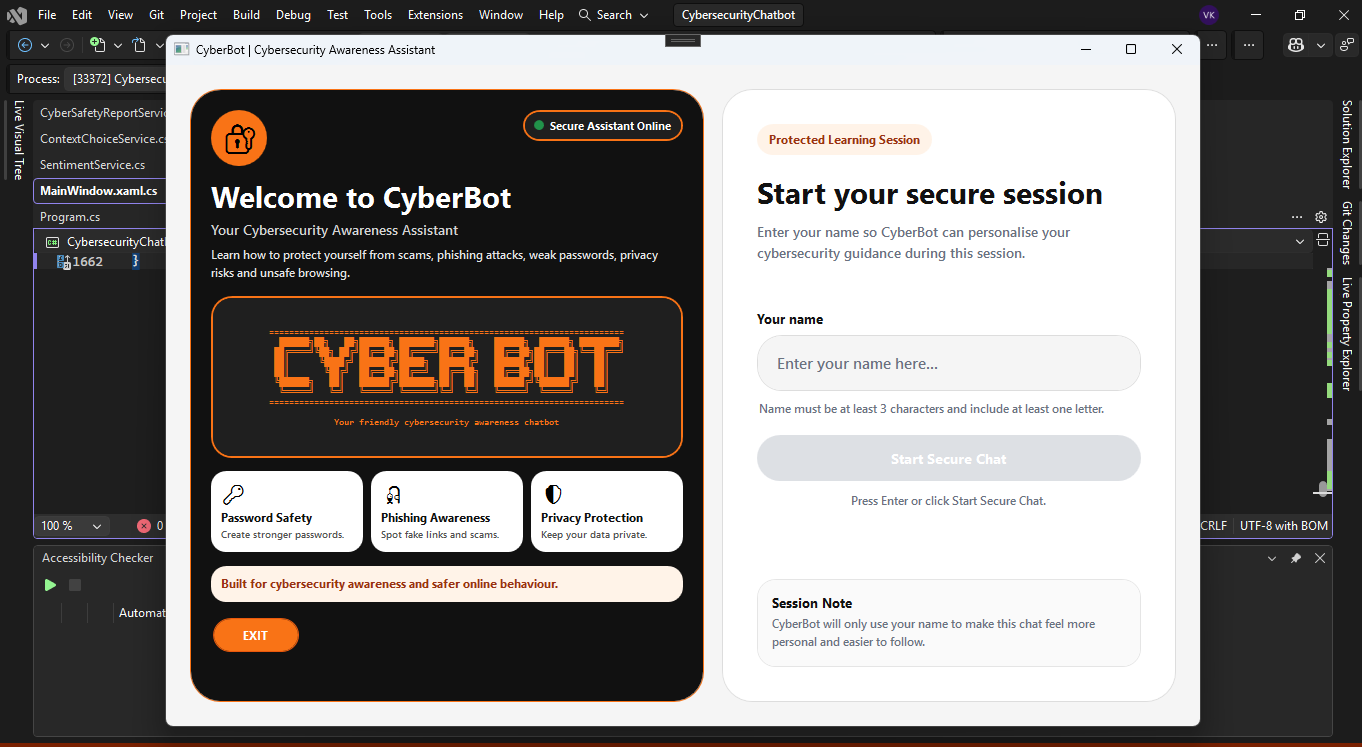
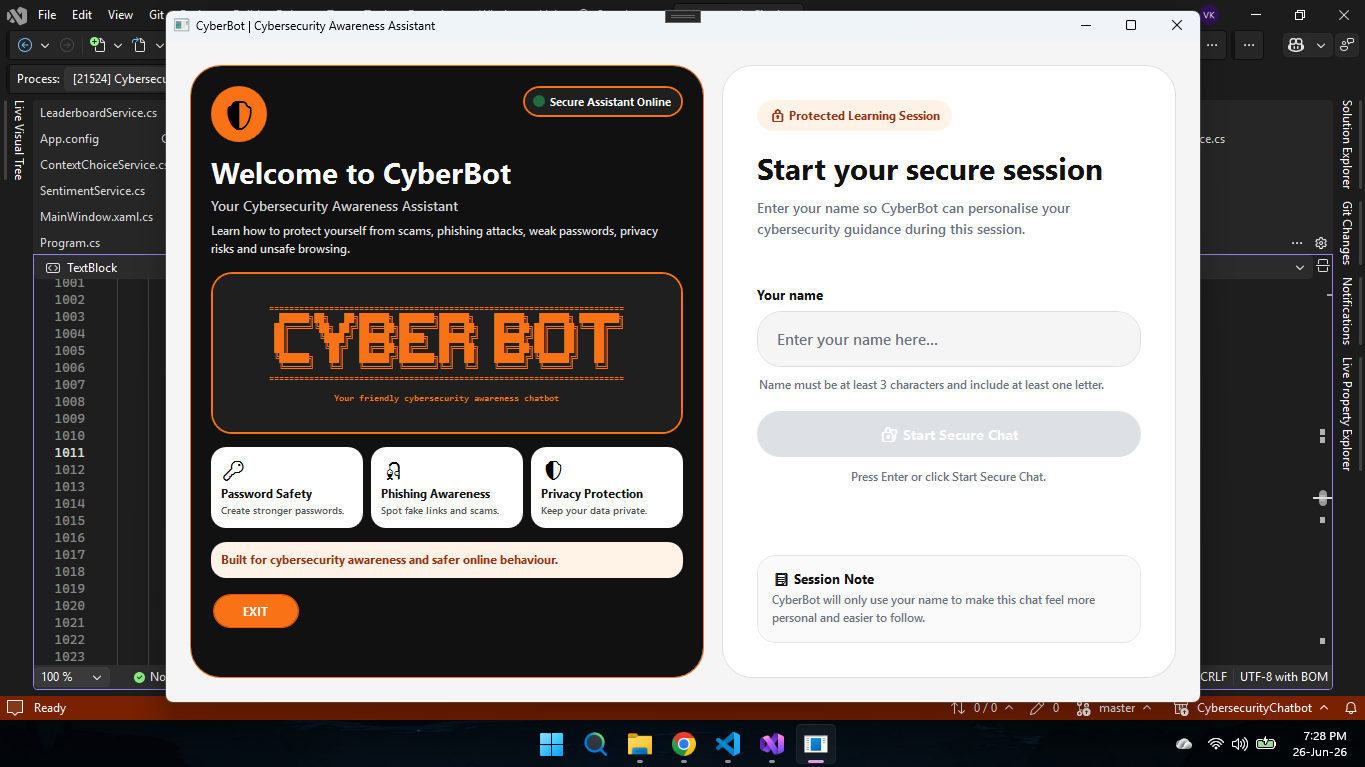
Added Part 3 screenshots

diff --git a/CybersecurityChatbotGUI/MainWindow.xaml.cs b/CybersecurityChatbotGUI/MainWindow.xaml.cs
@@ -197,44 +197,19 @@ namespace CybersecurityChatbotGUI
 
         private void AddTaskButton_Click(object sender, RoutedEventArgs e)
         {
-            string title = TaskTitleTextBox.Text.Trim();
-            string description = TaskDescriptionTextBox.Text.Trim();
-            string reminderText = TaskReminderTextBox.Text.Trim();
-
-            if (string.IsNullOrWhiteSpace(title))
-            {
-                ShowTaskFeedback("Please enter a task title.", false);
-                return;
-            }
-
-            bool confirmSave = CyberDialog.ShowConfirmation(
-                this,
-                "Save Task",
-                $"Are you sure you want to save this task?\n\nTitle: {title}");
-
+            string title = TaskTitleTextBox.Text.Trim(); string description = TaskDescriptionTextBox.Text.Trim(); string reminderText = TaskReminderTextBox.Text.Trim();
+            if (string.IsNullOrWhiteSpace(title)) { ShowTaskFeedback("Please enter a task title.", false); return; }
+            bool confirmSave = CyberDialog.ShowConfirmation(this, "Save Task", $"Are you sure you want to save this task?\n\nTitle: {title}");
             if (!confirmSave) return;
-
             DateTime? reminderDate = null;
-            if (!string.IsNullOrWhiteSpace(reminderText))
-            {
-                reminderDate = taskAssistant.ParseReminderDate(reminderText);
-
-                
-            }
-
+            if (!string.IsNullOrWhiteSpace(reminderText)) reminderDate = taskAssistant.ParseReminderDate(reminderText);
             string result = taskAssistant.AddTask(title, description, reminderDate);
             bool isSuccess = result.Contains("successfully");
             ShowTaskFeedback(result, isSuccess);
-
-            if (isSuccess)
-            {
-                TaskTitleTextBox.Clear();
-                TaskDescriptionTextBox.Clear();
-                TaskReminderTextBox.Clear();
-            }
-
+            if (isSuccess) { TaskTitleTextBox.Clear(); TaskDescriptionTextBox.Clear(); TaskReminderTextBox.Clear(); }
             RefreshTaskList();
         }
+
         private async void ShowTaskFeedback(string message, bool isSuccess)
         {
             StackPanel parentStack = null; DependencyObject current = AddTaskButton.Parent; while (current != null) { if (current is StackPanel sp) { parentStack = sp; break; } current = VisualTreeHelper.GetParent(current); }
@@ -286,30 +261,8 @@ namespace CybersecurityChatbotGUI
                 editBtn.Style = es;
                 editBtn.Content = new Viewbox { Width = 14, Height = 14, Child = new Path { Fill = new SolidColorBrush(Colors.White), Stretch = Stretch.Uniform, Data = Geometry.Parse("M3,17.25V21H6.75L17.81,9.94L14.06,6.19L3,17.25M20.71,7.04C21.1,6.65 21.1,6 20.71,5.63L18.37,3.29C18,2.9 17.35,2.9 16.96,3.29L15.13,5.12L18.88,8.87L20.71,7.04Z") } };
                 editBtn.SetValue(Grid.ColumnProperty, 2);
-                int eid = task.TaskID; string et = task.Title; string ed = task.Description; string er = task.ReminderDate.HasValue ? task.ReminderDate.Value.ToString("yyyy-MM-dd HH:mm") : "";
-                editBtn.Click += (s, ev) => {
-                    TaskTitleTextBox.Text = et;
-                    TaskDescriptionTextBox.Text = ed;
-                    if (task.ReminderDate.HasValue)
-                    {
-                        TimeSpan diff = task.ReminderDate.Value - DateTime.Now;
-                        if (diff.Days > 1)
-                            TaskReminderTextBox.Text = $"in {diff.Days} days";
-                        else if (diff.Days == 1 || (diff.Days == 0 && diff.Hours > 0))
-                            TaskReminderTextBox.Text = "tomorrow";
-                        else if (diff.Days == 0 && diff.Hours <= 0)
-                            TaskReminderTextBox.Text = "today";
-                        else
-                            TaskReminderTextBox.Text = task.ReminderDate.Value.ToString("yyyy-MM-dd HH:mm");
-                    }
-                    else
-                    {
-                        TaskReminderTextBox.Text = "";
-                    }
-                    taskAssistant.DeleteTask(eid);
-                    RefreshTaskList();
-                    ShowTab(TaskTab);
-                };
+                int eid = task.TaskID; string et = task.Title; string ed = task.Description;
+                editBtn.Click += (s, ev) => { TaskTitleTextBox.Text = et; TaskDescriptionTextBox.Text = ed; if (task.ReminderDate.HasValue) { TimeSpan diff = task.ReminderDate.Value - DateTime.Now; if (diff.Days > 1) TaskReminderTextBox.Text = $"in {diff.Days} days"; else if (diff.Days == 1 || (diff.Days == 0 && diff.Hours > 0)) TaskReminderTextBox.Text = "tomorrow"; else TaskReminderTextBox.Text = task.ReminderDate.Value.ToString("yyyy-MM-dd HH:mm"); } else { TaskReminderTextBox.Text = ""; } taskAssistant.DeleteTask(eid); RefreshTaskList(); ShowTab(TaskTab); };
                 cg.Children.Add(editBtn);
             }
 
@@ -321,13 +274,7 @@ namespace CybersecurityChatbotGUI
             deleteBtn.Content = new Viewbox { Width = 14, Height = 14, Child = new Path { Fill = new SolidColorBrush(Colors.White), Stretch = Stretch.Uniform, Data = Geometry.Parse("M9,3V4H4V6H5V19A2,2 0 0,0 7,21H17A2,2 0 0,0 19,19V6H20V4H15V3H9M7,6H17V19H7V6M9,8V17H11V8H9M13,8V17H15V8H13Z") } };
             deleteBtn.SetValue(Grid.ColumnProperty, 3);
             int did = task.TaskID;
-            deleteBtn.Click += (s, ev) => {
-                if (CyberDialog.ShowConfirmation(this, "Confirm Delete", $"Are you sure you want to delete task '{task.Title}'?"))
-                {
-                    taskAssistant.DeleteTask(did);
-                    RefreshTaskList();
-                }
-            };
+            deleteBtn.Click += (s, ev) => { if (CyberDialog.ShowConfirmation(this, "Confirm Delete", $"Are you sure you want to delete task '{task.Title}'?")) { taskAssistant.DeleteTask(did); RefreshTaskList(); } };
             cg.Children.Add(deleteBtn);
 
             card.Child = cg; return card;
@@ -339,7 +286,19 @@ namespace CybersecurityChatbotGUI
         private void ProcessQuizAnswer(int si) { foreach (Border ob in QuizOptionsPanel.Children) { ob.IsEnabled = false; ob.Cursor = Cursors.Arrow; int ti = (int)ob.Tag; bool ico = ti == quizManager.GetCurrentQuestion().CorrectAnswerIndex; bool isSel = ti == si; Grid og = ob.Child as Grid; Border lb = og?.Children[0] as Border; if (ico) { ob.Background = new SolidColorBrush(Color.FromRgb(240, 253, 244)); ob.BorderBrush = new SolidColorBrush(Color.FromRgb(34, 197, 94)); if (lb != null) { lb.Background = new SolidColorBrush(Color.FromRgb(34, 197, 94)); ScaleTransform st2 = new ScaleTransform(1, 1); lb.RenderTransform = st2; lb.RenderTransformOrigin = new Point(0.5, 0.5); DoubleAnimation p2 = new DoubleAnimation(1, 1.3, TimeSpan.FromMilliseconds(300)) { AutoReverse = true, EasingFunction = new CubicEase { EasingMode = EasingMode.EaseOut } }; st2.BeginAnimation(ScaleTransform.ScaleXProperty, p2); st2.BeginAnimation(ScaleTransform.ScaleYProperty, p2); } } else if (isSel && !ico) { ob.Background = new SolidColorBrush(Color.FromRgb(254, 242, 242)); ob.BorderBrush = new SolidColorBrush(Color.FromRgb(239, 68, 68)); if (lb != null) { lb.Background = new SolidColorBrush(Color.FromRgb(239, 68, 68)); TranslateTransform tt3 = new TranslateTransform(0, 0); lb.RenderTransform = tt3; DoubleAnimation sh = new DoubleAnimation(-5, 5, TimeSpan.FromMilliseconds(50)) { RepeatBehavior = new RepeatBehavior(4), AutoReverse = true }; tt3.BeginAnimation(TranslateTransform.XProperty, sh); } } else ob.Opacity = 0.5; } bool ic = quizManager.SubmitAnswer(si); Border fbb = new Border { Background = ic ? new SolidColorBrush(Color.FromRgb(240, 253, 244)) : new SolidColorBrush(Color.FromRgb(254, 242, 242)), BorderBrush = ic ? new SolidColorBrush(Color.FromRgb(34, 197, 94)) : new SolidColorBrush(Color.FromRgb(239, 68, 68)), BorderThickness = new Thickness(2), CornerRadius = new CornerRadius(16), Padding = new Thickness(16, 12, 16, 12), Margin = new Thickness(0, 8, 0, 8), Opacity = 0 }; StackPanel fs = new StackPanel(); StackPanel hs = new StackPanel { Orientation = Orientation.Horizontal, Margin = new Thickness(0, 0, 0, 6) }; TextBlock ttt = new TextBlock { Text = ic ? "Correct!" : "Incorrect", Foreground = ic ? new SolidColorBrush(Color.FromRgb(22, 101, 52)) : new SolidColorBrush(Color.FromRgb(185, 28, 28)), FontSize = 16, FontWeight = FontWeights.Bold, VerticalAlignment = VerticalAlignment.Center }; hs.Children.Add(ttt); TextBlock et = new TextBlock { Text = ic ? quizManager.GetCurrentExplanation() : $"The correct answer is: {quizManager.GetCorrectAnswerText()}. {quizManager.GetCurrentExplanation()}", Foreground = new SolidColorBrush(Color.FromRgb(75, 85, 99)), FontSize = 13, FontWeight = FontWeights.SemiBold, TextWrapping = TextWrapping.Wrap, LineHeight = 20 }; fs.Children.Add(hs); fs.Children.Add(et); fbb.Child = fs; QuizActivePanel.Children.Insert(QuizActivePanel.Children.IndexOf(QuizNextButton), fbb); fbb.RenderTransform = new TranslateTransform(0, 10); DoubleAnimation bfi = new DoubleAnimation(0, 1, TimeSpan.FromMilliseconds(300)) { EasingFunction = new CubicEase { EasingMode = EasingMode.EaseOut } }; DoubleAnimation bsu = new DoubleAnimation(10, 0, TimeSpan.FromMilliseconds(300)) { EasingFunction = new CubicEase { EasingMode = EasingMode.EaseOut } }; fbb.BeginAnimation(UIElement.OpacityProperty, bfi); (fbb.RenderTransform as TranslateTransform).BeginAnimation(TranslateTransform.YProperty, bsu); QuizNextButton.Visibility = Visibility.Visible; activityLogger.LogActivity($"Quiz Q{quizManager.CurrentQuestionNumber} answered", "Quiz"); }
         private void QuizNextButton_Click(object sender, RoutedEventArgs e) { List<UIElement> tr = new List<UIElement>(); foreach (UIElement c in QuizActivePanel.Children) { if (c is Border bc && bc.Tag == null) tr.Add(c); } foreach (var item in tr) QuizActivePanel.Children.Remove(item); if (quizManager.MoveToNextQuestion()) DisplayCurrentQuestion(); else ShowQuizResults(); }
         private void ShowQuizResults() { QuizActivePanel.Visibility = Visibility.Collapsed; QuizStartPanel.Visibility = Visibility.Collapsed; QuizResultsPanel.Visibility = Visibility.Visible; LeaderboardPanel.Visibility = Visibility.Collapsed; int score = quizManager.GetScore(); int total = quizManager.GetTotalQuestions(); QuizResultsTitleTextBlock.Text = "Quiz Complete!"; QuizResultsScoreTextBlock.Text = $"{score} / {total}"; QuizResultsFeedbackTextBlock.Text = quizManager.GetFinalFeedback(); activityLogger.LogActivity($"Quiz done - {score}/{total}", "Quiz"); leaderboardService.AddScore(userName, score, total); if (score == total) { Dispatcher.BeginInvoke(new Action(() => ShowConfettiBurst()), DispatcherPriority.Render); } }
-        private void QuitQuizButton_Click(object sender, RoutedEventArgs e) { if (MessageBox.Show("Are you sure you want to quit the quiz? Your progress will be lost and you will not appear on the leaderboard.", "Quit Quiz", MessageBoxButton.YesNo, MessageBoxImage.Warning) == MessageBoxResult.Yes) { QuizActivePanel.Visibility = Visibility.Collapsed; QuizResultsPanel.Visibility = Visibility.Collapsed; LeaderboardPanel.Visibility = Visibility.Collapsed; QuizStartPanel.Visibility = Visibility.Visible; activityLogger.LogActivity("Quiz quit by user", "Quiz"); } }
+
+        private void QuitQuizButton_Click(object sender, RoutedEventArgs e)
+        {
+            if (CyberDialog.ShowConfirmation(this, "Quit Quiz", "Are you sure you want to quit the quiz? Your progress will be lost and you will not appear on the leaderboard."))
+            {
+                QuizActivePanel.Visibility = Visibility.Collapsed;
+                QuizResultsPanel.Visibility = Visibility.Collapsed;
+                LeaderboardPanel.Visibility = Visibility.Collapsed;
+                QuizStartPanel.Visibility = Visibility.Visible;
+                activityLogger.LogActivity("Quiz quit by user", "Quiz");
+            }
+        }
+
         private void ShowLeaderboardButton_Click(object sender, RoutedEventArgs e) { QuizResultsPanel.Visibility = Visibility.Collapsed; LeaderboardPanel.Visibility = Visibility.Visible; RefreshLeaderboard(); }
         private void BackToResultsButton_Click(object sender, RoutedEventArgs e) { LeaderboardPanel.Visibility = Visibility.Collapsed; QuizResultsPanel.Visibility = Visibility.Visible; }
         private void BackToQuizFromLeaderboardButton_Click(object sender, RoutedEventArgs e) { LeaderboardPanel.Visibility = Visibility.Collapsed; QuizResultsPanel.Visibility = Visibility.Collapsed; QuizStartPanel.Visibility = Visibility.Visible; QuizActivePanel.Visibility = Visibility.Collapsed; }
@@ -366,7 +325,7 @@ namespace CybersecurityChatbotGUI
         private void UpdateStartChatButtonState() { if (StartChatButton != null && WelcomeNameTextBox != null) StartChatButton.IsEnabled = !string.IsNullOrWhiteSpace(WelcomeNameTextBox.Text) && nameAttempts < 3; }
 
         private async void ExitApplicationButton_Click(object sender, RoutedEventArgs e) { AnimateButtonPress(sender as Button); await ExitApplicationAsync(); }
-        private async Task ExitApplicationAsync() { if (MessageBox.Show("Are you sure you want to exit CyberBot?", "Confirm Exit", MessageBoxButton.YesNo, MessageBoxImage.Warning) != MessageBoxResult.Yes) { WelcomeNameTextBox.Focus(); return; } CyberDialog.ShowMessage(this, "Signing Off", "Stay safe!"); await Task.Delay(150); Application.Current.Shutdown(); }
+        private async Task ExitApplicationAsync() { if (!CyberDialog.ShowConfirmation(this, "Confirm Exit", "Are you sure you want to exit CyberBot?")) { WelcomeNameTextBox.Focus(); return; } CyberDialog.ShowMessage(this, "Signing Off", "Stay safe!"); await Task.Delay(150); Application.Current.Shutdown(); }
 
         private async void SendButton_Click(object sender, RoutedEventArgs e) { AnimateButtonPress(sender as Button); await SendUserMessageAsync(); }
         private async void UserInputTextBox_KeyDown(object sender, KeyEventArgs e) { if (e.Key == Key.Enter && SendButton.IsEnabled) await SendUserMessageAsync(); }
@@ -380,7 +339,7 @@ namespace CybersecurityChatbotGUI
         private async void LogoutMenuItem_Click(object sender, RoutedEventArgs e) { await LogoutAsync(); }
         private async Task ShowHelpMessageAsync() { if (isChatEnded || isBotTyping) return; keepChatAtTop = false; await ShowBotReplyAsync(nlpSimulator.GetHelpMenu()); UserInputTextBox.Focus(); }
         private void StartNewChat() { ChatPanel.Children.Clear(); TypingIndicatorBorder.Visibility = Visibility.Collapsed; keepChatAtTop = true; if (isChatEnded) { AddBotMessage("Session ended."); ScrollChatToTop(); return; } chatbotEngine.ResetConversationButKeepUser(); AddBotMessage($"New chat, {userName}."); UserInputTextBox.Clear(); UpdateSessionPanel(); UpdatePlaceholderState(); UpdateSendButtonState(); UpdateInputGlowState(); ScrollChatToTop(); }
-        private async Task LogoutAsync() { if (isBotTyping) { StopTypingAnimation(); isBotTyping = false; } if (MessageBox.Show("Are you sure you want to log out?", "Confirm Log Out", MessageBoxButton.YesNo, MessageBoxImage.Warning) != MessageBoxResult.Yes) { UserInputTextBox.Focus(); return; } CyberDialog.ShowMessage(this, "Logged Out", $"Stay safe, {userName}!"); ResetWelcomePage(); await ShowWelcomePageWithTransitionAsync(); }
+        private async Task LogoutAsync() { if (isBotTyping) { StopTypingAnimation(); isBotTyping = false; } if (!CyberDialog.ShowConfirmation(this, "Confirm Log Out", "Are you sure you want to log out?")) { UserInputTextBox.Focus(); return; } CyberDialog.ShowMessage(this, "Logged Out", $"Stay safe, {userName}!"); ResetWelcomePage(); await ShowWelcomePageWithTransitionAsync(); }
 
         private async Task ShowBotReplyAsync(string m) { isBotTyping = true; UpdateSendButtonState(); UpdateInputGlowState(); StartTypingAnimation(); await Task.Delay(CalculateTypingDelay(m)); StopTypingAnimation(); AddBotMessage(m); isBotTyping = false; UpdateSendButtonState(); UpdateInputGlowState(); }
         private void StartTypingAnimation() { typingDotCount = 0; currentTypingMessage = typingMessages[random.Next(typingMessages.Length)]; TypingIndicatorBorder.Visibility = Visibility.Visible; TypingIndicatorBorder.Opacity = 0; TypingIndicatorTextBlock.Text = currentTypingMessage; _ = FadeElementAsync(TypingIndicatorBorder, 0, 1, 180); StartBouncingTypingDots(); typingDotsTimer.Start(); }
